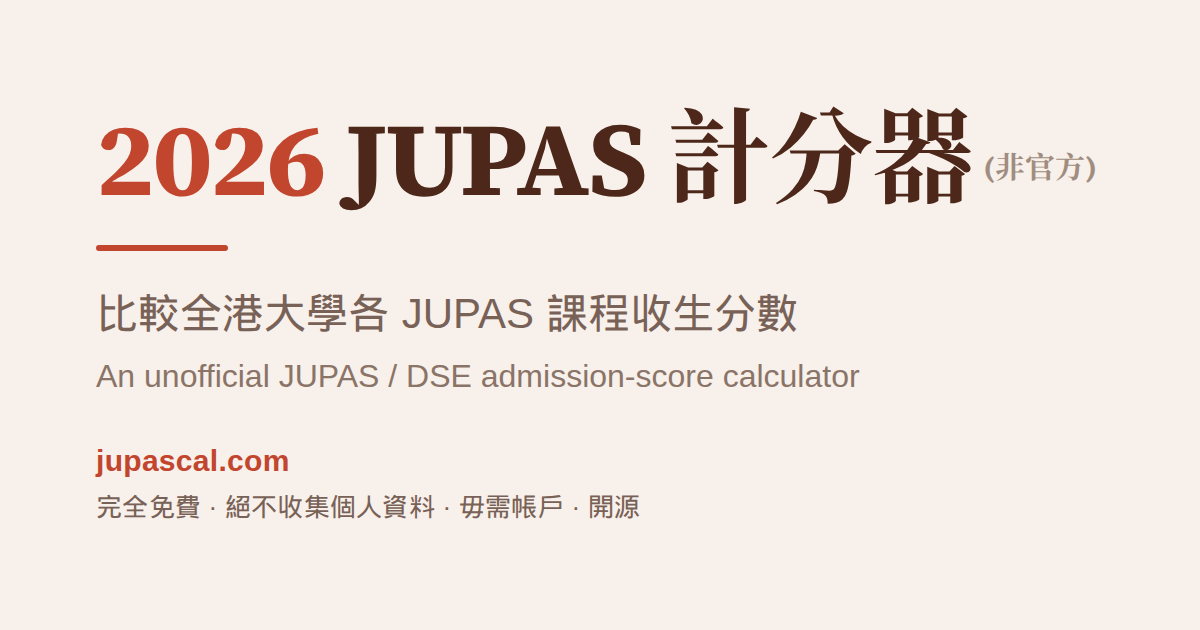
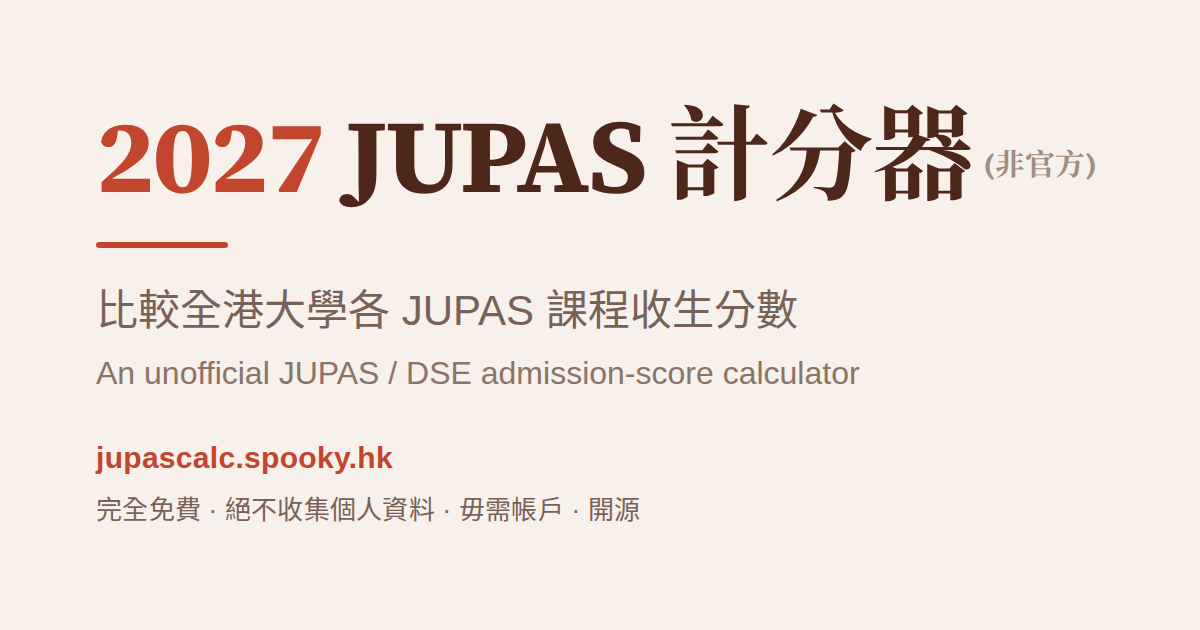
Point 2027 site to jupascalc.spooky.hk, add GitHub and MIT in About

diff --git a/index.html b/index.html
@@ -26,15 +26,15 @@
     <meta name="keywords" content="JUPAS, JUPAS計分, JUPAS收生分數, JUPAS計算機, DSE計算, DSE分數計算, 大學收生分數, JUPAS calculator, DSE score calculator, Hong Kong university admission" />
     <meta name="author" content="JUPASCal" />
     <meta name="robots" content="index, follow" />
-    <link rel="canonical" href="https://jupascal.com/" />
+    <link rel="canonical" href="https://jupascalc.spooky.hk/" />
 
     <!-- Open Graph (used by share-link previews on WhatsApp / Facebook / etc.) -->
     <meta property="og:type" content="website" />
     <meta property="og:site_name" content="JUPASCal" />
     <meta property="og:title" content="JUPAS Calculator 2027 – JUPASCal 收生計分器" />
     <meta property="og:description" content="輸入 DSE 成績，以 2027 年計分比重估算各 JUPAS 課程分數，並對比 2026 年入學收生數據，了解各志願的排位機會。" />
-    <meta property="og:url" content="https://jupascal.com/" />
-    <meta property="og:image" content="https://jupascal.com/og-image.png?v=2" />
+    <meta property="og:url" content="https://jupascalc.spooky.hk/" />
+    <meta property="og:image" content="https://jupascalc.spooky.hk/og-image.png?v=3" />
     <meta property="og:image:width" content="1200" />
     <meta property="og:image:height" content="630" />
     <meta property="og:locale" content="zh_HK" />
@@ -44,7 +44,7 @@
     <meta name="twitter:card" content="summary_large_image" />
     <meta name="twitter:title" content="JUPAS Calculator 2027 – JUPASCal 收生計分器" />
     <meta name="twitter:description" content="輸入 DSE 成績，以 2027 年計分比重估算各 JUPAS 課程分數，並對比 2026 年入學收生數據，了解各志願的排位機會。" />
-    <meta name="twitter:image" content="https://jupascal.com/og-image.png?v=2" />
+    <meta name="twitter:image" content="https://jupascalc.spooky.hk/og-image.png?v=3" />
 
     <!-- Structured data: tells search engines this is a free educational web app -->
     <script type="application/ld+json">
@@ -53,7 +53,7 @@
       "@type": "WebApplication",
       "name": "JUPASCal",
       "alternateName": "JUPAS Cal · JUPAS 收生計分器",
-      "url": "https://jupascal.com/",
+      "url": "https://jupascalc.spooky.hk/",
       "description": "An unofficial JUPAS / DSE admission-score calculator: estimate your score under each programme's own weighting and compare it against recent admission scores across Hong Kong's 10 institutions.",
       "applicationCategory": "EducationalApplication",
       "operatingSystem": "Web",
@@ -75,7 +75,7 @@
         {
           "@type": "Question",
           "name": "What is JUPASCal?",
-          "acceptedAnswer": { "@type": "Answer", "text": "JUPASCal 2027 is an unofficial fork of the original JUPASCal 2026 project (jupascal.com). It is a free JUPAS admission-score calculator for Hong Kong HKDSE students: enter your DSE grades to estimate your score under each programme's 2027 subject weighting, then compare it against 2026 intake admission scores. The data was gathered with AI assistance and its accuracy is not guaranteed; always verify with official sources." }
+          "acceptedAnswer": { "@type": "Answer", "text": "JUPASCal 2027 is an unofficial fork of the original JUPASCal 2026 project (jupascal.com), live at jupascalc.spooky.hk and open source under the MIT License at github.com/SpookyKipper/JupasCalculator. It is a free JUPAS admission-score calculator for Hong Kong HKDSE students: enter your DSE grades to estimate your score under each programme's 2027 subject weighting, then compare it against 2026 intake admission scores. The data was gathered with AI assistance and its accuracy is not guaranteed; always verify with official sources." }
         },
         {
           "@type": "Question",
@@ -100,8 +100,8 @@
       "@context": "https://schema.org",
       "@type": "Organization",
       "name": "JUPASCal",
-      "url": "https://jupascal.com/",
-      "logo": "https://jupascal.com/icon-512.png",
+      "url": "https://jupascalc.spooky.hk/",
+      "logo": "https://jupascalc.spooky.hk/icon-512.png",
       "description": "A free, unofficial JUPAS / HKDSE admission-score calculator for Hong Kong university applicants."
     }
     </script>
@@ -111,7 +111,7 @@
       "@type": "WebSite",
       "name": "JUPASCal",
       "alternateName": "JUPAS 收生計分器",
-      "url": "https://jupascal.com/",
+      "url": "https://jupascalc.spooky.hk/",
       "inLanguage": ["zh-Hant", "en"]
     }
     </script>
@@ -141,11 +141,11 @@
            Keep the copy generic — no hard-coded programme count (project UI-copy rule). -->
       <main id="seo-fallback" style="max-width:680px;margin:0 auto;padding:48px 24px;font-family:'Gelasio',Georgia,serif;line-height:1.65">
         <h1 style="font-size:1.9rem;margin:0 0 10px">JUPAS Calculator 2027 · JUPAS 收生計分器</h1>
-        <p class="muted" style="margin:0 0 18px">A free, unofficial JUPAS &amp; HKDSE admission-score calculator for Hong Kong university applicants. This is an unofficial <strong>2027 fork</strong> of the original JUPASCal 2026 project (<a href="https://github.com/JUPASCal/JUPASCal.github.io">GitHub</a> · <a href="https://jupascal.com/">jupascal.com</a>).</p>
+        <p class="muted" style="margin:0 0 18px">A free, unofficial JUPAS &amp; HKDSE admission-score calculator for Hong Kong university applicants. This is an unofficial <strong>2027 fork</strong> of the original JUPASCal 2026 project (<a href="https://github.com/JUPASCal/JUPASCal.github.io">GitHub</a> · <a href="https://jupascal.com/">jupascal.com</a>). This 2027 version is live at <a href="https://jupascalc.spooky.hk/">jupascalc.spooky.hk</a> and is <a href="https://github.com/SpookyKipper/JupasCalculator">open source on GitHub</a> under the MIT License.</p>
         <p class="muted" style="margin:0 0 18px">The 2027 weightings and 2026 intake scores were gathered with <strong>AI assistance</strong>. Accuracy is not guaranteed — always verify with official JUPAS and institution sources.</p>
         <p>Enter your HKDSE grades to estimate your admission score under each JUPAS programme's own subject weighting, and compare it against recent lower-quartile, median and upper-quartile admission scores across all ten institutions — HKU, CUHK, HKUST, PolyU, CityUHK, HKBU, Lingnan University, EdUHK, HKMU and the SSSDP programmes.</p>
         <p lang="zh-Hant">輸入你的 DSE 成績，按每個 JUPAS 課程的計分比重估算分數，並對比全港十間院校往年（下四分位／中位／上四分位）的收生分數，了解各志願的排位機會。</p>
-        <p class="muted" lang="zh-Hant">此為原 JUPASCal 2026 項目（<a href="https://github.com/JUPASCal/JUPASCal.github.io">GitHub</a> · <a href="https://jupascal.com/">jupascal.com</a>）的非官方 2027 分支。2027 年科目比重及 2026 年入學分數由 AI 協助整理，準確性不受保證；請務必以 JUPAS 及各院校官方資料為準。</p>
+        <p class="muted" lang="zh-Hant">此為原 JUPASCal 2026 項目（<a href="https://github.com/JUPASCal/JUPASCal.github.io">GitHub</a> · <a href="https://jupascal.com/">jupascal.com</a>）的非官方 2027 分支；2027 版本見 <a href="https://jupascalc.spooky.hk/">jupascalc.spooky.hk</a>，並以 MIT 授權於 <a href="https://github.com/SpookyKipper/JupasCalculator">GitHub</a> 開源。2027 年科目比重及 2026 年入學分數由 AI 協助整理，準確性不受保證；請務必以 JUPAS 及各院校官方資料為準。</p>
         <ul>
           <li>Every JUPAS degree programme across Hong Kong's 10 institutions</li>
           <li>Each programme's real subject weighting and Best-5 / Best-6 scoring formula</li>

diff --git a/src/lib/strings.ts b/src/lib/strings.ts
@@ -70,14 +70,14 @@ export const STRINGS = {
   "welcome.slide3.cap": { en: "Every JUPAS programme, in one place", zh: "集中查看所有JUPAS 課程" },
   "welcome.gotoSlide": { en: "Go to slide {n}", zh: "前往第 {n} 張" },
   "welcome.getStarted": { en: "Get started", zh: "開始使用" },
-  "welcome.footnote.pre": { en: "Free · unofficial 2027 fork · AI-assisted data · reference only · ", zh: "免費 · 非官方 2027 分支 · AI 輔助資料 · 僅供參考 · " },
+  "welcome.footnote.pre": { en: "Free · open-source · unofficial 2027 fork · AI-assisted data · reference only · ", zh: "免費 · 開源 · 非官方 2027 分支 · AI 輔助資料 · 僅供參考 · " },
   "welcome.footnote.how": { en: "How it works ↗", zh: "運作原理 ↗" },
 
   // – About page –
   "about.eyebrow": { en: "About", zh: "關於" },
   "about.title": { en: "JUPASCal", zh: "JUPASCal" },
   "about.lede": { en: "An unofficial 2027 fork of the JUPASCal 2026 calculator, for comparing programmes and recent admission-score benchmarks across Hong Kong universities.", zh: "JUPASCal 2026 的非官方 2027 分支，可比較香港各大學課程及其近年收生分數基準。" },
-  "about.free": { en: "JUPASCal 2027 is free to use. No account is needed, and there is no paid version.", zh: "JUPASCal 2027 免費使用，毋須開設帳戶，亦沒有收費版本。" },
+  "about.free": { en: "JUPASCal 2027 is free and open source under the MIT License. No account is needed, and there is no paid version.", zh: "JUPASCal 2027 免費開源，以 MIT 授權條款發布，毋須開設帳戶，亦沒有收費版本。" },
   "about.facts.institutions": { en: "institutions", zh: "所院校" },
   "about.facts.programmes": { en: "programmes", zh: "個課程" },
   "about.facts.baselines": { en: "score baselines", zh: "收生分數基準" },
@@ -98,9 +98,11 @@ export const STRINGS = {
     zh: "關於此 2027 分支"
   },
   "about.source.p.pre": {
-    en: "JUPASCal 2027 is an unofficial fork of the original JUPASCal 2026 project. The 2027 weightings and entrance requirements, and the 2026 intake scores, were gathered with AI assistance and manual checking. They may contain errors and their accuracy is not guaranteed. Always verify against official JUPAS and institution publications.",
-    zh: "JUPASCal 2027 是原 JUPASCal 2026 項目的非官方分支。2027 年科目比重及入學要求、以及 2026 年入學收生分數，均由 AI 協助整理並經人工抽查，仍可能有錯漏，準確性不受保證。作出決定前，請務必以 JUPAS 及各院校官方資料為準。"
+    en: "JUPASCal 2027 is an unofficial fork of the original JUPASCal 2026 project. The 2027 weightings and entrance requirements, and the 2026 intake scores, were gathered with AI assistance and manual checking. They may contain errors and their accuracy is not guaranteed. This 2027 fork is open source under the MIT License; always verify against official JUPAS and institution publications.",
+    zh: "JUPASCal 2027 是原 JUPASCal 2026 項目的非官方分支。2027 年科目比重及入學要求、以及 2026 年入學收生分數，均由 AI 協助整理並經人工抽查，仍可能有錯漏，準確性不受保證。此 2027 分支以 MIT 授權條款開源發布；作出決定前，請務必以 JUPAS 及各院校官方資料為準。"
   },
+  "about.source.live2027": { en: "2027 live site ↗", zh: "2027 網站 ↗" },
+  "about.source.github2027": { en: "2027 GitHub (MIT) ↗", zh: "2027 GitHub（MIT）↗" },
   "about.source.original": { en: "Original 2026 site ↗", zh: "原 2026 網站 ↗" },
   "about.source.github": { en: "Original 2026 GitHub ↗", zh: "原 2026 GitHub ↗" },
   "about.source.jupas": { en: "Official JUPAS site ↗", zh: "JUPAS 官方網站 ↗" },
@@ -681,7 +683,7 @@ export const STRINGS = {
   "share.viewAnalysis": { en: "View analysis", zh: "查看分析" },
   "share.viewModeBadge": { en: "Viewing a shared plan", zh: "正在檢視分享的計劃" },
   "share.recapAria": { en: "JUPAS recap card", zh: "JUPAS 總覽卡" },
-  "share.recapFootnote": { en: "jupascal.com · unofficial JUPAS calculator · for reference only", zh: "jupascal.com · 非官方 JUPAS 計分器 · 僅供參考" },
+  "share.recapFootnote": { en: "jupascalc.spooky.hk · unofficial JUPAS calculator · for reference only", zh: "jupascalc.spooky.hk · 非官方 JUPAS 計分器 · 僅供參考" },
   "share.showScoresToggle": { en: "Show my calculated scores on the card", zh: "在卡片上顯示我的計算分數" },
   "share.shareThisAria": { en: "Share this plan", zh: "分享此計劃" },
   "share.shareViaTitle": { en: "Share via…", zh: "分享…" },

diff --git a/src/components/AboutPage.tsx b/src/components/AboutPage.tsx
@@ -130,6 +130,22 @@ export function AboutPage({ onClose }: Props) {
             <div className="about-source-actions">
               <a
                 className="about-source-btn"
+                href="https://jupascalc.spooky.hk/"
+                target="_blank"
+                rel="noreferrer"
+              >
+                {t("about.source.live2027")}
+              </a>
+              <a
+                className="about-source-btn is-secondary"
+                href="https://github.com/SpookyKipper/JupasCalculator"
+                target="_blank"
+                rel="noreferrer"
+              >
+                {t("about.source.github2027")}
+              </a>
+              <a
+                className="about-source-btn is-secondary"
                 href="https://jupascal.com/"
                 target="_blank"
                 rel="noreferrer"

diff --git a/scripts/gen_og_image.py b/scripts/gen_og_image.py
@@ -13,7 +13,7 @@ HTML = """
 <!doctype html><html lang="zh-Hant"><head><meta charset="utf-8">
 <link rel="preconnect" href="https://fonts.googleapis.com">
 <link rel="preconnect" href="https://fonts.gstatic.com" crossorigin>
-<link rel="stylesheet" href="https://fonts.googleapis.com/css2?family=Source+Serif+4:wght@700&family=Noto+Serif+TC:wght@700&text=2026%20JUPAS%E8%A8%88%E5%88%86%E5%99%A8%28%E9%9D%9E%E5%AE%98%E6%96%B9%29&display=swap">
+<link rel="stylesheet" href="https://fonts.googleapis.com/css2?family=Source+Serif+4:wght@700&family=Noto+Serif+TC:wght@700&text=2027%20JUPAS%E8%A8%88%E5%88%86%E5%99%A8%28%E9%9D%9E%E5%AE%98%E6%96%B9%29&display=swap">
 <style>
   * { margin: 0; box-sizing: border-box; }
   html, body { width: 1200px; height: 630px; }
@@ -40,12 +40,12 @@ HTML = """
 </style></head>
 <body>
   <div class="card">
-    <div class="word"><span class="yr">2026</span> JUPAS 計分器<span class="unofficial">(非官方)</span></div>
+    <div class="word"><span class="yr">2027</span> JUPAS 計分器<span class="unofficial">(非官方)</span></div>
     <div class="rule"></div>
     <div class="tag">比較全港大學各 JUPAS 課程收生分數
       <span class="en">An unofficial JUPAS / DSE admission-score calculator</span>
     </div>
-    <div class="url">jupascal.com</div>
+    <div class="url">jupascalc.spooky.hk</div>
     <div class="free">完全免費 · 絕不收集個人資料 · 毋需帳戶 · 開源</div>
   </div>
 </body></html>

diff --git a/README.md b/README.md
@@ -1,15 +1,13 @@
 # JUPASCal 2027 · unofficial fork of JUPASCal 2026
 
 An **unofficial 2027 fork** of the original [JUPASCal 2026 project](https://github.com/JUPASCal/JUPASCal.github.io),
-for Hong Kong DSE students. The original 2026 project is released under the
-**MIT License** and is available on [GitHub](https://github.com/JUPASCal/JUPASCal.github.io)
-and at <https://jupascal.com/>. This 2027 fork is **not currently published as an
-open-source repository** and has no public GitHub repository. Enter your HKDSE grades, build your A1–B6 programme list, and the tool
-estimates your admission score for every JUPAS programme (400+ across 10
-institutions) and compares it against historical admission data — a fast **DSE
-score calculator** that works out each programme's own weighting for you.
+for Hong Kong DSE students. Enter your HKDSE grades, build your A1–B6 programme
+list, and the tool estimates your admission score for every JUPAS programme
+(400+ across 10 institutions) and compares it against 2026 intake admission data.
 
-🔗 **Original 2026 project:** [GitHub](https://github.com/JUPASCal/JUPASCal.github.io) (MIT License) · [jupascal.com](https://jupascal.com/) — this working copy is the 2027 data refresh of that MIT-licensed app. Remove/change the canonical URL and branding before publishing your own deployment.
+🔗 **2027 live site: <https://jupascalc.spooky.hk/>**
+📦 **2027 source: <https://github.com/SpookyKipper/JupasCalculator>** (MIT License)
+🧬 **Original 2026 project:** [GitHub](https://github.com/JUPASCal/JUPASCal.github.io) · [jupascal.com](https://jupascal.com/)
 
 > [!IMPORTANT]
 > **This is an unofficial, educational tool — not affiliated with JUPAS or any
